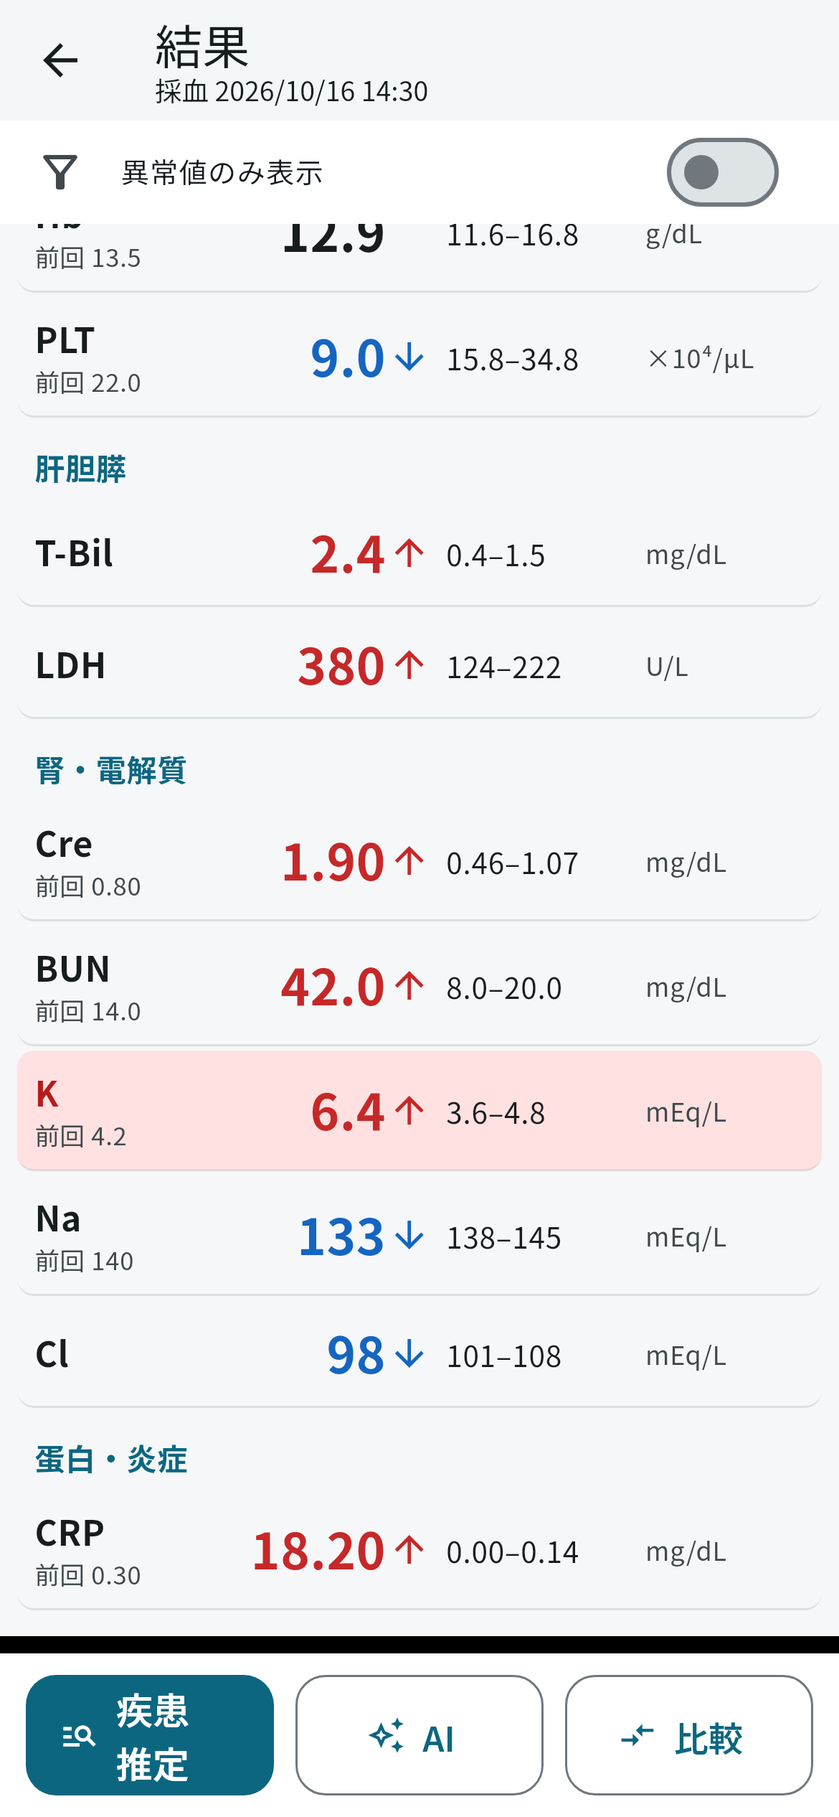
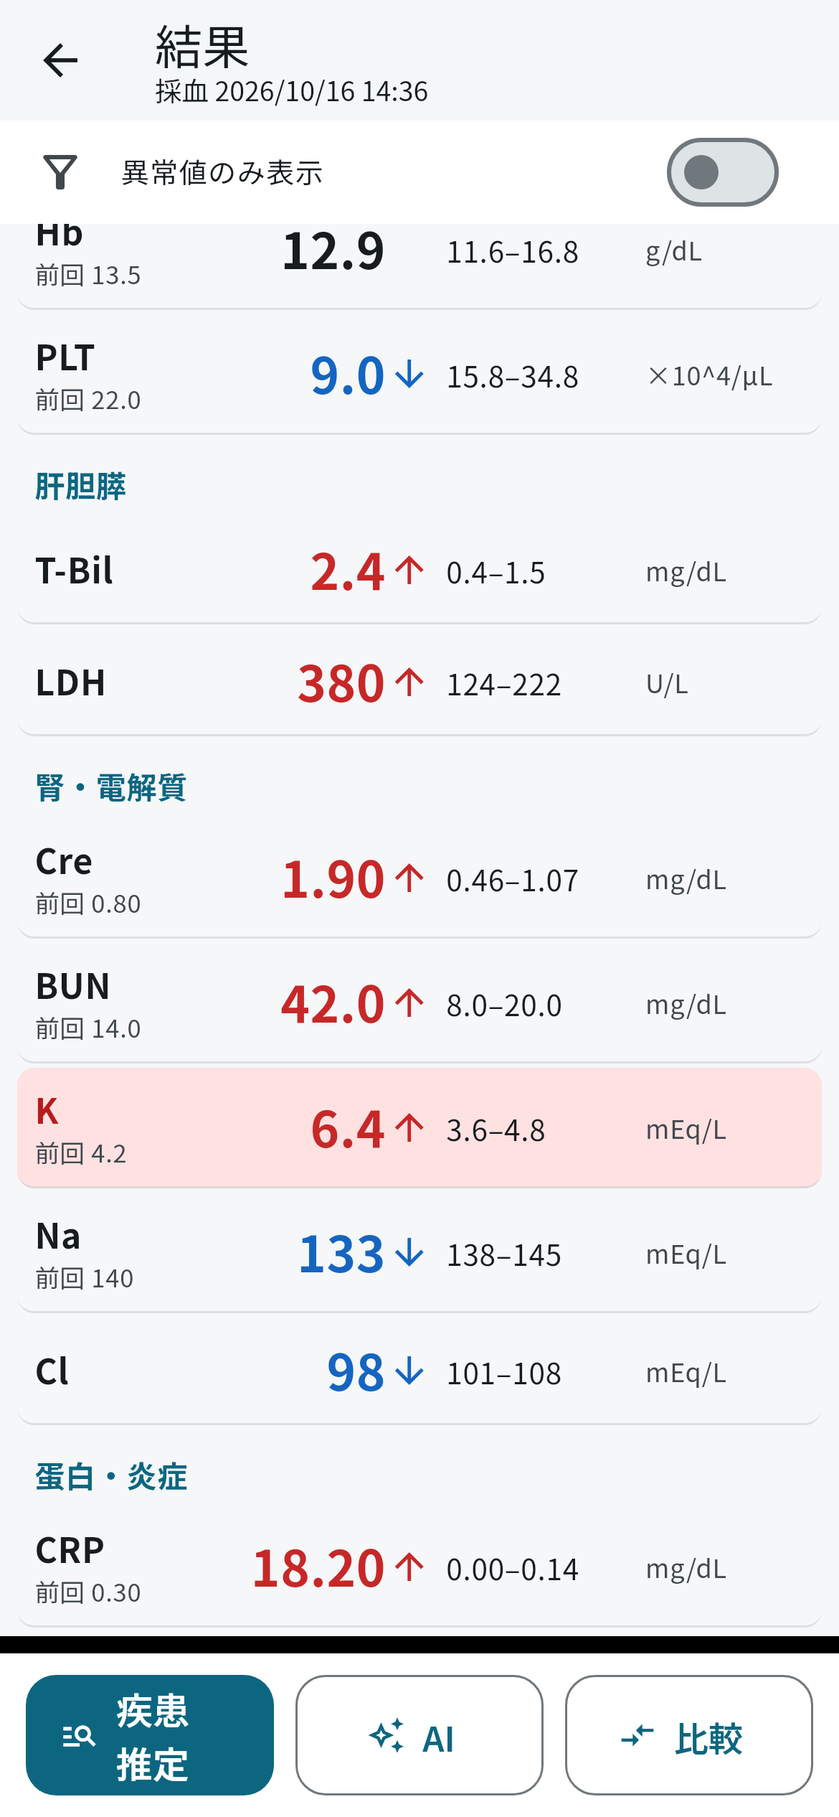
文字化け（□表示）と誤字を修正
- PO₂・HCO₃⁻・×10⁴ などの下付き・上付き文字を、どのフォントでも表示できる通常の文字（PO2・HCO3-・×10^4）に変更
- ボタン・ナビゲーションの文字にテーマのフォント設定を引き継ぐよう修正
- 推移グラフの縦軸の端に出ていた半端な数値を非表示に
- 「鼻カヌラ」を「鼻カニューラ」に、「大量生食投与」を「生理食塩水の大量投与」に、「意識障害（Ⅲ度）」を「意識障害（熱中症Ⅲ度）」に修正
- 誤読の候補表示を「（140 ?）」から「（140 の誤りでは？）」に変更
- 同じ値の根拠が疾患推定で2回表示されないよう1行にまとめる
- スクリーンショットを更新

Claude-Session: https://claude.ai/code/session_018od6uKdjrvoAUpTTuvYb1F

diff --git a/labsight/lib/services/clinical_calc.dart b/labsight/lib/services/clinical_calc.dart
@@ -47,34 +47,34 @@ SpecimenEstimate estimateSpecimen(LabSet set) {
   if (po2 != null) {
     if (po2 >= 70) {
       score += 2;
-      reasons.add('PO₂ ${po2.toStringAsFixed(0)} mmHg（≧70は動脈血に典型的）');
+      reasons.add('PO2 ${po2.toStringAsFixed(0)} mmHg（≧70は動脈血に典型的）');
     } else if (po2 >= 55) {
       score += 1;
-      reasons.add('PO₂ ${po2.toStringAsFixed(0)} mmHg（やや動脈血寄り）');
+      reasons.add('PO2 ${po2.toStringAsFixed(0)} mmHg（やや動脈血寄り）');
     } else if (po2 <= 45) {
       score -= 2;
-      reasons.add('PO₂ ${po2.toStringAsFixed(0)} mmHg（≦45は静脈血に典型的${onO2 ? '。酸素投与下でも静脈血は通常低値' : ''}）');
+      reasons.add('PO2 ${po2.toStringAsFixed(0)} mmHg（≦45は静脈血に典型的${onO2 ? '。酸素投与下でも静脈血は通常低値' : ''}）');
     } else {
-      reasons.add('PO₂ ${po2.toStringAsFixed(0)} mmHg（判別困難な範囲）');
+      reasons.add('PO2 ${po2.toStringAsFixed(0)} mmHg（判別困難な範囲）');
     }
   }
   if (so2 != null) {
     if (so2 >= 92) {
       score += 2;
-      reasons.add('SO₂ ${so2.toStringAsFixed(0)}%（≧92は動脈血に典型的）');
+      reasons.add('SO2 ${so2.toStringAsFixed(0)}%（≧92は動脈血に典型的）');
     } else if (so2 <= 80) {
       score -= 2;
-      reasons.add('SO₂ ${so2.toStringAsFixed(0)}%（≦80は静脈血に典型的）');
+      reasons.add('SO2 ${so2.toStringAsFixed(0)}%（≦80は静脈血に典型的）');
     } else {
-      reasons.add('SO₂ ${so2.toStringAsFixed(0)}%（判別困難な範囲）');
+      reasons.add('SO2 ${so2.toStringAsFixed(0)}%（判別困難な範囲）');
     }
   }
   if (pco2 != null) {
     if (pco2 >= 46 && (po2 == null || po2 < 50)) {
       score -= 1;
-      reasons.add('PCO₂ ${pco2.toStringAsFixed(0)} mmHg（静脈血は動脈血より約5–6高い）');
+      reasons.add('PCO2 ${pco2.toStringAsFixed(0)} mmHg（静脈血は動脈血より約5–6高い）');
     } else {
-      reasons.add('PCO₂ ${pco2.toStringAsFixed(0)} mmHg（単独では判別困難）');
+      reasons.add('PCO2 ${pco2.toStringAsFixed(0)} mmHg（単独では判別困難）');
     }
   }
   final type = score >= 2
@@ -102,6 +102,7 @@ double? estimateFio2(String? device, double? flow) {
   switch (device) {
     case '室内気':
       return 0.21;
+    case '鼻カニューラ':
     case '鼻カヌラ':
       if (flow == null) return null;
       return min(0.21 + 0.04 * flow, 0.45);
@@ -146,7 +147,7 @@ Map<String, DerivedValue> computeDerived(LabSet set) {
   double? ag = g('AG');
   if (na != null && cl != null && hco3 != null) {
     final calc = na - (cl + hco3);
-    out['AG_CALC'] = DerivedValue('AG_CALC', 'AG（計算）', calc, unit: 'mEq/L', formula: 'Na −(Cl + HCO₃⁻)', note: '基準 8–16（施設により10–14）', decimals: 1);
+    out['AG_CALC'] = DerivedValue('AG_CALC', 'AG（計算）', calc, unit: 'mEq/L', formula: 'Na −(Cl + HCO3-)', note: '基準 8–16（施設により10–14）', decimals: 1);
     ag ??= calc;
   }
   if (ag != null && alb != null) {
@@ -155,7 +156,7 @@ Map<String, DerivedValue> computeDerived(LabSet set) {
   }
   if (ag != null && hco3 != null && ag > 16 && hco3 < 24) {
     final dr = (ag - 12) / (24 - hco3);
-    out['DELTA_RATIO'] = DerivedValue('DELTA_RATIO', 'Δ比（ΔAG/ΔHCO₃⁻）', dr, formula: '(AG−12) ÷ (24−HCO₃⁻)', note: '<1: 正AG性アシドーシス合併 / >2: 代謝性アルカローシス合併', decimals: 2);
+    out['DELTA_RATIO'] = DerivedValue('DELTA_RATIO', 'Δ比（ΔAG/ΔHCO3-）', dr, formula: '(AG−12) ÷ (24−HCO3-)', note: '<1: 正AG性アシドーシス合併 / >2: 代謝性アルカローシス合併', decimals: 2);
   }
   final ca = g('CA');
   if (ca != null && alb != null && !v.containsKey('CA_CORR')) {
@@ -165,7 +166,7 @@ Map<String, DerivedValue> computeDerived(LabSet set) {
   if (cre != null && cre > 0 && ctx.age != null && ctx.sex != null && !v.containsKey('EGFR') && ctx.age! >= 18) {
     var e = 194 * pow(cre, -1.094) * pow(ctx.age!, -0.287);
     if (ctx.sex == 'F') e *= 0.739;
-    out['EGFR'] = DerivedValue('EGFR', 'eGFR（計算）', e.toDouble(), unit: 'mL/min/1.73m²', formula: '日本人のGFR推算式', decimals: 1);
+    out['EGFR'] = DerivedValue('EGFR', 'eGFR（計算）', e.toDouble(), unit: 'mL/min/1.73m^2', formula: '日本人のGFR推算式', decimals: 1);
   }
   final tbil = g('TBIL'), dbil = g('DBIL');
   if (tbil != null && dbil != null && tbil > 0) {
@@ -185,7 +186,7 @@ Map<String, DerivedValue> computeDerived(LabSet set) {
   }
   final mcv = g('MCV'), rbc = g('RBC');
   if (mcv != null && rbc != null && rbc > 0 && mcv < 80) {
-    out['MENTZER'] = DerivedValue('MENTZER', 'Mentzer指数', mcv / (rbc / 100), formula: 'MCV ÷ RBC(×10⁶/μL)', note: '<13でサラセミア、>13で鉄欠乏を示唆', decimals: 1);
+    out['MENTZER'] = DerivedValue('MENTZER', 'Mentzer指数', mcv / (rbc / 100), formula: 'MCV ÷ RBC(×10^6/μL)', note: '<13でサラセミア、>13で鉄欠乏を示唆', decimals: 1);
   }
   final wbc = g('WBC'), neut = g('NEUT'), lymph = g('LYMPH');
   if (wbc != null && neut != null) {
@@ -212,23 +213,23 @@ Map<String, DerivedValue> computeDerived(LabSet set) {
   final f = resolveFio2(set.oxygen);
   if (po2 != null && spec == SpecimenType.arterial && est.type != SpecimenType.unknown && f.fio2 != null) {
     final pf = po2 / f.fio2!;
-    out['PF'] = DerivedValue('PF', f.estimated ? 'P/F比（FiO₂推定値）' : 'P/F比', pf,
-        formula: 'PaO₂ ÷ FiO₂(${f.fio2!.toStringAsFixed(2)})',
-        note: '<300: 酸素化障害 / <200: 中等症 / <100: 重症（ARDSの目安）${f.estimated ? '。FiO₂は器具・流量からの推定値' : ''}',
+    out['PF'] = DerivedValue('PF', f.estimated ? 'P/F比（FiO2推定値）' : 'P/F比', pf,
+        formula: 'PaO2 ÷ FiO2(${f.fio2!.toStringAsFixed(2)})',
+        note: '<300: 酸素化障害 / <200: 中等症 / <100: 重症（ARDSの目安）${f.estimated ? '。FiO2は器具・流量からの推定値' : ''}',
         decimals: 0);
     if (pco2 != null) {
       final aado2 = f.fio2! * 713 - pco2 / 0.8 - po2;
-      out['AADO2'] = DerivedValue('AADO2', 'A-aDO₂', aado2, unit: 'mmHg', formula: 'FiO₂×713 − PaCO₂/0.8 − PaO₂', note: '室内気で 年齢/4+4 程度まで', decimals: 0);
+      out['AADO2'] = DerivedValue('AADO2', 'A-aDO2', aado2, unit: 'mmHg', formula: 'FiO2×713 − PaCO2/0.8 − PaO2', note: '室内気で 年齢/4+4 程度まで', decimals: 0);
     }
   }
   final ph = g('PH');
   if (ph != null && pco2 != null && hco3 != null && ph < 7.35 && hco3 < 22) {
     final expected = 1.5 * hco3 + 8;
-    out['WINTER'] = DerivedValue('WINTER', '予測PaCO₂（Winter式）', expected, unit: 'mmHg', formula: '1.5×HCO₃⁻ + 8 ±2',
+    out['WINTER'] = DerivedValue('WINTER', '予測PaCO2（Winter式）', expected, unit: 'mmHg', formula: '1.5×HCO3- + 8 ±2',
         note: pco2 > expected + 2
-            ? '実測PCO₂が高い → 呼吸性アシドーシス合併'
+            ? '実測PCO2が高い → 呼吸性アシドーシス合併'
             : pco2 < expected - 2
-                ? '実測PCO₂が低い → 呼吸性アルカローシス合併'
+                ? '実測PCO2が低い → 呼吸性アルカローシス合併'
                 : '代償は適切',
         decimals: 0);
   }

diff --git a/labsight/lib/data/lab_catalog_data.dart b/labsight/lib/data/lab_catalog_data.dart
@@ -24,7 +24,7 @@ const List<LabItemDef> builtinLabItems = [
       low: 3300, high: 8600, critLow: 1500, critHigh: 30000,
       plausLow: 50, plausHigh: 500000, decimals: 0,
       aliases: ['WBC', '白血球', '白血球数', 'ワイビーシー', 'WBCCOUNT'],
-      altUnits: [AltUnit('×10^3/μL', 1000), AltUnit('×10³/μL', 1000), AltUnit('10^3/μL', 1000), AltUnit('×10^2/μL', 100), AltUnit('×10^9/L', 1000)]),
+      altUnits: [AltUnit('×10^3/μL', 1000), AltUnit('×10^3/μL', 1000), AltUnit('10^3/μL', 1000), AltUnit('×10^2/μL', 100), AltUnit('×10^9/L', 1000)]),
   LabItemDef(
       code: 'NEUT', name: 'Neut', jpName: '好中球', category: _cbc, unit: '%',
       low: 40, high: 75, plausLow: 0, plausHigh: 100,
@@ -46,11 +46,11 @@ const List<LabItemDef> builtinLabItems = [
       low: 0, high: 2, plausLow: 0, plausHigh: 100,
       aliases: ['BASO', 'BASO%', 'BA%', '好塩基球', '好塩基球%', '好塩基球率']),
   LabItemDef(
-      code: 'RBC', name: 'RBC', jpName: '赤血球数', category: _cbc, unit: '×10⁴/μL',
+      code: 'RBC', name: 'RBC', jpName: '赤血球数', category: _cbc, unit: '×10^4/μL',
       low: 386, high: 555, lowM: 435, highM: 555, lowF: 386, highF: 492,
       plausLow: 50, plausHigh: 900, decimals: 0,
       aliases: ['RBC', '赤血球', '赤血球数'],
-      altUnits: [AltUnit('×10^6/μL', 100), AltUnit('×10⁶/μL', 100), AltUnit('×10^12/L', 100)]),
+      altUnits: [AltUnit('×10^6/μL', 100), AltUnit('×10^6/μL', 100), AltUnit('×10^12/L', 100)]),
   LabItemDef(
       code: 'HB', name: 'Hb', jpName: 'ヘモグロビン', category: _cbc, unit: 'g/dL',
       low: 11.6, high: 16.8, lowM: 13.7, highM: 16.8, lowF: 11.6, highF: 14.8,
@@ -76,11 +76,11 @@ const List<LabItemDef> builtinLabItems = [
       aliases: ['MCHC', '平均赤血球血色素濃度', '平均赤血球ヘモグロビン濃度'],
       altUnits: [AltUnit('g/dL', 1)]),
   LabItemDef(
-      code: 'PLT', name: 'PLT', jpName: '血小板数', category: _cbc, unit: '×10⁴/μL',
+      code: 'PLT', name: 'PLT', jpName: '血小板数', category: _cbc, unit: '×10^4/μL',
       low: 15.8, high: 34.8, critLow: 3.0, critHigh: 100,
       plausLow: 0.1, plausHigh: 300,
       aliases: ['PLT', '血小板', '血小板数', 'PLTS'],
-      altUnits: [AltUnit('×10^3/μL', 0.1), AltUnit('×10³/μL', 0.1), AltUnit('×10^9/L', 0.1), AltUnit('/μL', 0.0001)]),
+      altUnits: [AltUnit('×10^3/μL', 0.1), AltUnit('×10^3/μL', 0.1), AltUnit('×10^9/L', 0.1), AltUnit('/μL', 0.0001)]),
   LabItemDef(
       code: 'RET', name: 'Ret', jpName: '網赤血球', category: _cbc, unit: '%',
       low: 0.5, high: 2.0, plausLow: 0, plausHigh: 50,
@@ -181,7 +181,7 @@ const List<LabItemDef> builtinLabItems = [
       aliases: ['CRE', 'CR', 'CREA', 'CRN', 'CRTN', 'クレアチニン', 'S-CRE', 'Cre'],
       altUnits: [AltUnit('μmol/L', 0.01131)]),
   LabItemDef(
-      code: 'EGFR', name: 'eGFR', jpName: '推算GFR', category: _renal, unit: 'mL/min/1.73m²',
+      code: 'EGFR', name: 'eGFR', jpName: '推算GFR', category: _renal, unit: 'mL/min/1.73m^2',
       low: 60, plausLow: 1, plausHigh: 250,
       aliases: ['EGFR', 'eGFR', 'EGFRCRE', 'eGFRcre', '推算GFR', 'GFR']),
   LabItemDef(
@@ -338,20 +338,20 @@ const List<LabItemDef> builtinLabItems = [
       critLow: 7.20, critHigh: 7.60, plausLow: 6.5, plausHigh: 8.0, decimals: 2, isGas: true,
       aliases: ['PH', 'pH', 'PH(37℃)']),
   LabItemDef(
-      code: 'PCO2', name: 'PCO₂', jpName: '二酸化炭素分圧', category: _gas, unit: 'mmHg',
+      code: 'PCO2', name: 'PCO2', jpName: '二酸化炭素分圧', category: _gas, unit: 'mmHg',
       low: 35, high: 45, venousLow: 41, venousHigh: 51,
       critLow: 20, critHigh: 70, plausLow: 5, plausHigh: 200, isGas: true,
       aliases: ['PCO2', 'PACO2', 'PVCO2', 'PCO2(T)', '二酸化炭素分圧'],
       altUnits: [AltUnit('kPa', 7.50062)]),
   LabItemDef(
-      code: 'PO2', name: 'PO₂', jpName: '酸素分圧', category: _gas, unit: 'mmHg',
+      code: 'PO2', name: 'PO2', jpName: '酸素分圧', category: _gas, unit: 'mmHg',
       low: 80, high: 100, venousLow: 25, venousHigh: 45,
       critLow: 50, plausLow: 5, plausHigh: 700, isGas: true,
       rangeNote: '動脈血の critLow(50) は静脈血では適用しません',
       aliases: ['PO2', 'PAO2', 'PVO2', 'PO2(T)', '酸素分圧'],
       altUnits: [AltUnit('kPa', 7.50062)]),
   LabItemDef(
-      code: 'HCO3', name: 'HCO₃⁻', jpName: '重炭酸イオン', category: _gas, unit: 'mEq/L',
+      code: 'HCO3', name: 'HCO3-', jpName: '重炭酸イオン', category: _gas, unit: 'mEq/L',
       low: 22, high: 26, venousLow: 23, venousHigh: 29,
       critLow: 10, critHigh: 40, plausLow: 1, plausHigh: 60, isGas: true,
       aliases: ['HCO3', 'HCO3-', 'HCO3ACT', 'CHCO3', 'HCO3(P)', 'HCO3(ACT)', 'BICARB', '重炭酸', '重炭酸イオン'],
@@ -363,7 +363,7 @@ const List<LabItemDef> builtinLabItems = [
       aliases: ['BE', 'ABE', 'SBE', 'BE(B)', 'BE(ECF)', 'BEB', 'BEECF', 'ベースエクセス', '塩基過剰'],
       altUnits: [AltUnit('mmol/L', 1)]),
   LabItemDef(
-      code: 'SO2', name: 'SO₂', jpName: '酸素飽和度', category: _gas, unit: '%',
+      code: 'SO2', name: 'SO2', jpName: '酸素飽和度', category: _gas, unit: '%',
       low: 95, high: 100, venousLow: 60, venousHigh: 85,
       plausLow: 5, plausHigh: 100, isGas: true,
       aliases: ['SO2', 'SAO2', 'SVO2', 'O2SAT', 'SO2(C)', 'SO2C', 'O2HB', 'FO2HB', '酸素飽和度']),
@@ -377,17 +377,17 @@ const List<LabItemDef> builtinLabItems = [
       code: 'AG', name: 'AG', jpName: 'アニオンギャップ', category: _gas, unit: 'mEq/L',
       low: 8, high: 16, venousLow: 8, venousHigh: 16,
       plausLow: -10, plausHigh: 60, isGas: true,
-      rangeNote: 'AG = Na −(Cl + HCO₃⁻)。Kを含む式では基準値が高くなります',
+      rangeNote: 'AG = Na −(Cl + HCO3-)。Kを含む式では基準値が高くなります',
       aliases: ['AG', 'ANIONGAP', 'アニオンギャップ', 'AGAP', 'AG(K)']),
 
   // ───────── その他 ─────────
   LabItemDef(
-      code: 'NH3', name: 'NH₃', jpName: 'アンモニア', category: _other, unit: 'μg/dL',
+      code: 'NH3', name: 'NH3', jpName: 'アンモニア', category: _other, unit: 'μg/dL',
       low: 12, high: 66, critHigh: 200, plausLow: 1, plausHigh: 2000, decimals: 0,
       aliases: ['NH3', 'アンモニア', '血中アンモニア', 'AMMONIA'],
       altUnits: [AltUnit('μmol/L', 1.703)]),
   LabItemDef(
-      code: 'OSM', name: '浸透圧', jpName: '血漿浸透圧', category: _other, unit: 'mOsm/kgH₂O',
+      code: 'OSM', name: '浸透圧', jpName: '血漿浸透圧', category: _other, unit: 'mOsm/kgH2O',
       low: 275, high: 290, critLow: 240, critHigh: 330, plausLow: 150, plausHigh: 500, decimals: 0,
       aliases: ['OSM', '浸透圧', '血漿浸透圧', '血清浸透圧', 'POSM', 'SOSM']),
   LabItemDef(

diff --git a/labsight/lib/widgets/oxygen_editor.dart b/labsight/lib/widgets/oxygen_editor.dart
@@ -4,7 +4,7 @@ import '../models/lab_set.dart';
 import '../services/clinical_calc.dart';
 import '../theme.dart';
 
-const oxygenDevices = ['室内気', '鼻カヌラ', '簡易マスク', 'リザーバーマスク', 'ベンチュリーマスク', 'ハイフロー', 'NPPV', '人工呼吸器'];
+const oxygenDevices = ['室内気', '鼻カニューラ', '簡易マスク', 'リザーバーマスク', 'ベンチュリーマスク', 'ハイフロー', 'NPPV', '人工呼吸器'];
 
 /// 酸素投与の表示・手入力欄。
 class OxygenEditor extends StatefulWidget {
@@ -115,7 +115,7 @@ class _OxygenEditorState extends State<OxygenEditor> {
             child: TextField(
               controller: _fio2,
               keyboardType: const TextInputType.numberWithOptions(decimal: true),
-              decoration: const InputDecoration(labelText: 'FiO₂', suffixText: '%'),
+              decoration: const InputDecoration(labelText: 'FiO2', suffixText: '%'),
               onChanged: (v) {
                 final x = double.tryParse(v);
                 o.fio2 = x == null ? null : (x > 1 ? x / 100 : x);
@@ -128,7 +128,7 @@ class _OxygenEditorState extends State<OxygenEditor> {
         if (o.fio2 == null && f.fio2 != null)
           Padding(
             padding: const EdgeInsets.only(top: 6),
-            child: Text('器具と流量からの推定 FiO₂ ≈ ${(f.fio2! * 100).toStringAsFixed(0)}%（目安）',
+            child: Text('器具と流量からの推定 FiO2 ≈ ${(f.fio2! * 100).toStringAsFixed(0)}%（目安）',
                 style: TextStyle(fontSize: 12, color: scheme.onSurfaceVariant)),
           ),
       ],

diff --git a/labsight/lib/services/ocr_parser.dart b/labsight/lib/services/ocr_parser.dart
@@ -374,9 +374,9 @@ class _Entry {
       } else {
         u = def.unit;
       }
-      // 単位なしで桁が合わない場合（例: WBC 6.5 → ×10³/μL）
+      // 単位なしで桁が合わない場合（例: WBC 6.5 → ×10^3/μL）
       var issue = catalog.checkPlausibility(code, v);
-      // 危険値を大きく超える場合も、別単位（例: PLT 235 ×10³/μL）の可能性を検討
+      // 危険値を大きく超える場合も、別単位（例: PLT 235 ×10^3/μL）の可能性を検討
       final suspicious = issue != null || (def.critHigh != null && v > def.critHigh! * 1.5);
       if (suspicious && unit == null) {
         for (final a in def.altUnits) {
@@ -475,7 +475,7 @@ OxygenInfo detectOxygen(String text) {
   }
   final devices = <String, RegExp>{
     '室内気': RegExp(r'(室内気|ROOM\s*AIR|\bR\.?A\.?\b|大気下|自発呼吸\(?RA)', caseSensitive: false),
-    '鼻カヌラ': RegExp(r'(鼻カ[ヌニ]ュ?ー?[ラレ]|カ[ヌニ]ュ?ー?[ラレ]|NASAL\s*CANNULA|\bNC\b)', caseSensitive: false),
+    '鼻カニューラ': RegExp(r'(鼻カ[ヌニ]ュ?ー?[ラレ]|カ[ヌニ]ュ?ー?[ラレ]|NASAL\s*CANNULA|\bNC\b)', caseSensitive: false),
     'リザーバーマスク': RegExp(r'(リザーバ|RESERVOIR|NRBM|ノンリブリーザー)', caseSensitive: false),
     'ベンチュリーマスク': RegExp(r'(ベンチュリ|VENTURI)', caseSensitive: false),
     'ハイフロー': RegExp(r'(HFNC|ハイフロー|HIGH\s*FLOW|ネーザルハイ)', caseSensitive: false),

diff --git a/labsight/lib/models/lab_set.dart b/labsight/lib/models/lab_set.dart
@@ -117,7 +117,7 @@ class OxygenInfo {
   /// 用紙から見つかった記載（原文の断片）。
   List<String> foundTexts;
 
-  /// 器具（室内気 / 鼻カヌラ / マスク / リザーバー など）。
+  /// 器具（室内気 / 鼻カニューラ / マスク / リザーバー など）。
   String? device;
   double? flowLpm;
 
@@ -245,7 +245,7 @@ class PatientContext {
     if (sbp != null || dbp != null) m['血圧'] = '${sbp ?? '-'}/${dbp ?? '-'} mmHg';
     if (hr != null) m['脈拍'] = '$hr/分';
     if (rr != null) m['呼吸数'] = '$rr/分';
-    if (spo2 != null) m['SpO₂'] = '$spo2%';
+    if (spo2 != null) m['SpO2'] = '$spo2%';
     if (jcs != null) m['JCS'] = jcs!;
     if (gcs != null) m['GCS'] = '$gcs';
     if (symptoms.isNotEmpty) m['症状'] = symptoms.join('、');

diff --git a/labsight/lib/services/rule_engine.dart b/labsight/lib/services/rule_engine.dart
@@ -315,7 +315,7 @@ class Fio2Cond extends Cond {
   Hit? eval(EvalEnv env) {
     final f = env.fio2;
     if (f == null || !_cmp(f, op, a, null)) return null;
-    return Hit([f <= 0.21 ? '室内気（FiO₂ 0.21）' : 'FiO₂ ${f.toStringAsFixed(2)}']);
+    return Hit([f <= 0.21 ? '室内気（FiO2 0.21）' : 'FiO2 ${f.toStringAsFixed(2)}']);
   }
 }
 
@@ -347,7 +347,7 @@ class CtxCond extends Cond {
     'dbp': ('拡張期血圧', 'mmHg'),
     'hr': ('脈拍', '/分'),
     'rr': ('呼吸数', '/分'),
-    'spo2': ('SpO₂', '%'),
+    'spo2': ('SpO2', '%'),
     'gcs': ('GCS', ''),
     'jcs': ('JCS', ''),
     'weight': ('体重', 'kg'),

diff --git a/labsight/lib/screens/confirm_screen.dart b/labsight/lib/screens/confirm_screen.dart
@@ -165,7 +165,7 @@ class _ConfirmScreenState extends State<ConfirmScreen> {
               child: Text(
                   set.specimen.sheetLabel != null
                       ? '用紙に「${set.specimen.sheetLabel!.label}」の記載があります'
-                      : '用紙に検体種別の記載は見つかりませんでした（PO₂・SO₂・PCO₂から推定します）',
+                      : '用紙に検体種別の記載は見つかりませんでした（PO2・SO2・PCO2から推定します）',
                   style: TextStyle(fontSize: 12, color: scheme.onSurfaceVariant)),
             ),
           ],

diff --git a/labsight/lib/services/ai_service.dart b/labsight/lib/services/ai_service.dart
@@ -101,7 +101,7 @@ class AiService {
       final f = resolveFio2(current.oxygen);
       b.writeln('- 酸素投与: ${current.oxygen.device ?? '記載なし（未確認）'}'
           '${current.oxygen.flowLpm != null ? ' ${current.oxygen.flowLpm}L/分' : ''}'
-          '${f.fio2 != null ? ' FiO₂ ${f.fio2!.toStringAsFixed(2)}${f.estimated ? '（推定）' : ''}' : ''}');
+          '${f.fio2 != null ? ' FiO2 ${f.fio2!.toStringAsFixed(2)}${f.estimated ? '（推定）' : ''}' : ''}');
     }
     if (previous != null) {
       final days = current.takenAt.difference(previous.takenAt).inHours / 24;

diff --git a/labsight/lib/services/lab_catalog.dart b/labsight/lib/services/lab_catalog.dart
@@ -186,7 +186,7 @@ class LabCatalog extends ChangeNotifier {
     final name = def.name;
     if (best != null) {
       final s = formatNumber(best, def.decimals);
-      return PlausibilityIssue('$name ${_fmt(value)} はありえない値です。小数点ずれ・誤読の可能性（$s ?）', best);
+      return PlausibilityIssue('$name ${_fmt(value)} はありえない値です。小数点ずれ・誤読の可能性（$s の誤りでは？）', best);
     }
     return PlausibilityIssue('$name ${_fmt(value)} はありえない値です。誤読の可能性があります', null);
   }

diff --git a/labsight/lib/screens/result_screen.dart b/labsight/lib/screens/result_screen.dart
@@ -357,7 +357,7 @@ class _ResultsList extends StatelessWidget {
     final parts = <String>[];
     if (o.device != null) parts.add(o.device!);
     if (o.flowLpm != null) parts.add('${o.flowLpm}L/分');
-    if (o.fio2 != null) parts.add('FiO₂ ${(o.fio2! * 100).toStringAsFixed(0)}%');
+    if (o.fio2 != null) parts.add('FiO2 ${(o.fio2! * 100).toStringAsFixed(0)}%');
     final pf = derived['PF'];
     if (pf != null) parts.add('${pf.label} ${pf.value.toStringAsFixed(0)}');
     if (parts.isEmpty) return '酸素投与の記載なし（未確認）・タップして入力';

diff --git a/labsight/lib/screens/context_input_screen.dart b/labsight/lib/screens/context_input_screen.dart
@@ -116,7 +116,7 @@ class _ContextInputScreenState extends State<ContextInputScreen> {
               _num('拡張期血圧', _dbp, suffix: 'mmHg'),
               _num('脈拍', _hr, suffix: '/分'),
               _num('呼吸数', _rr, suffix: '/分'),
-              _num('SpO₂', _spo2, suffix: '%'),
+              _num('SpO2', _spo2, suffix: '%'),
               SizedBox(
                 width: 150,
                 child: DropdownButtonFormField<String?>(

diff --git a/labsight/test/app_flow_test.dart b/labsight/test/app_flow_test.dart
@@ -98,7 +98,7 @@ void main() {
         }.entries)
           LabValue(code: e.key, value: e.value)
       ],
-      oxygen: OxygenInfo(device: '鼻カヌラ', flowLpm: 3, foundTexts: ['O2 3L/min', '鼻カヌラ']),
+      oxygen: OxygenInfo(device: '鼻カニューラ', flowLpm: 3, foundTexts: ['O2 3L/min', '鼻カニューラ']),
       source: 'photo',
     ));
   });
